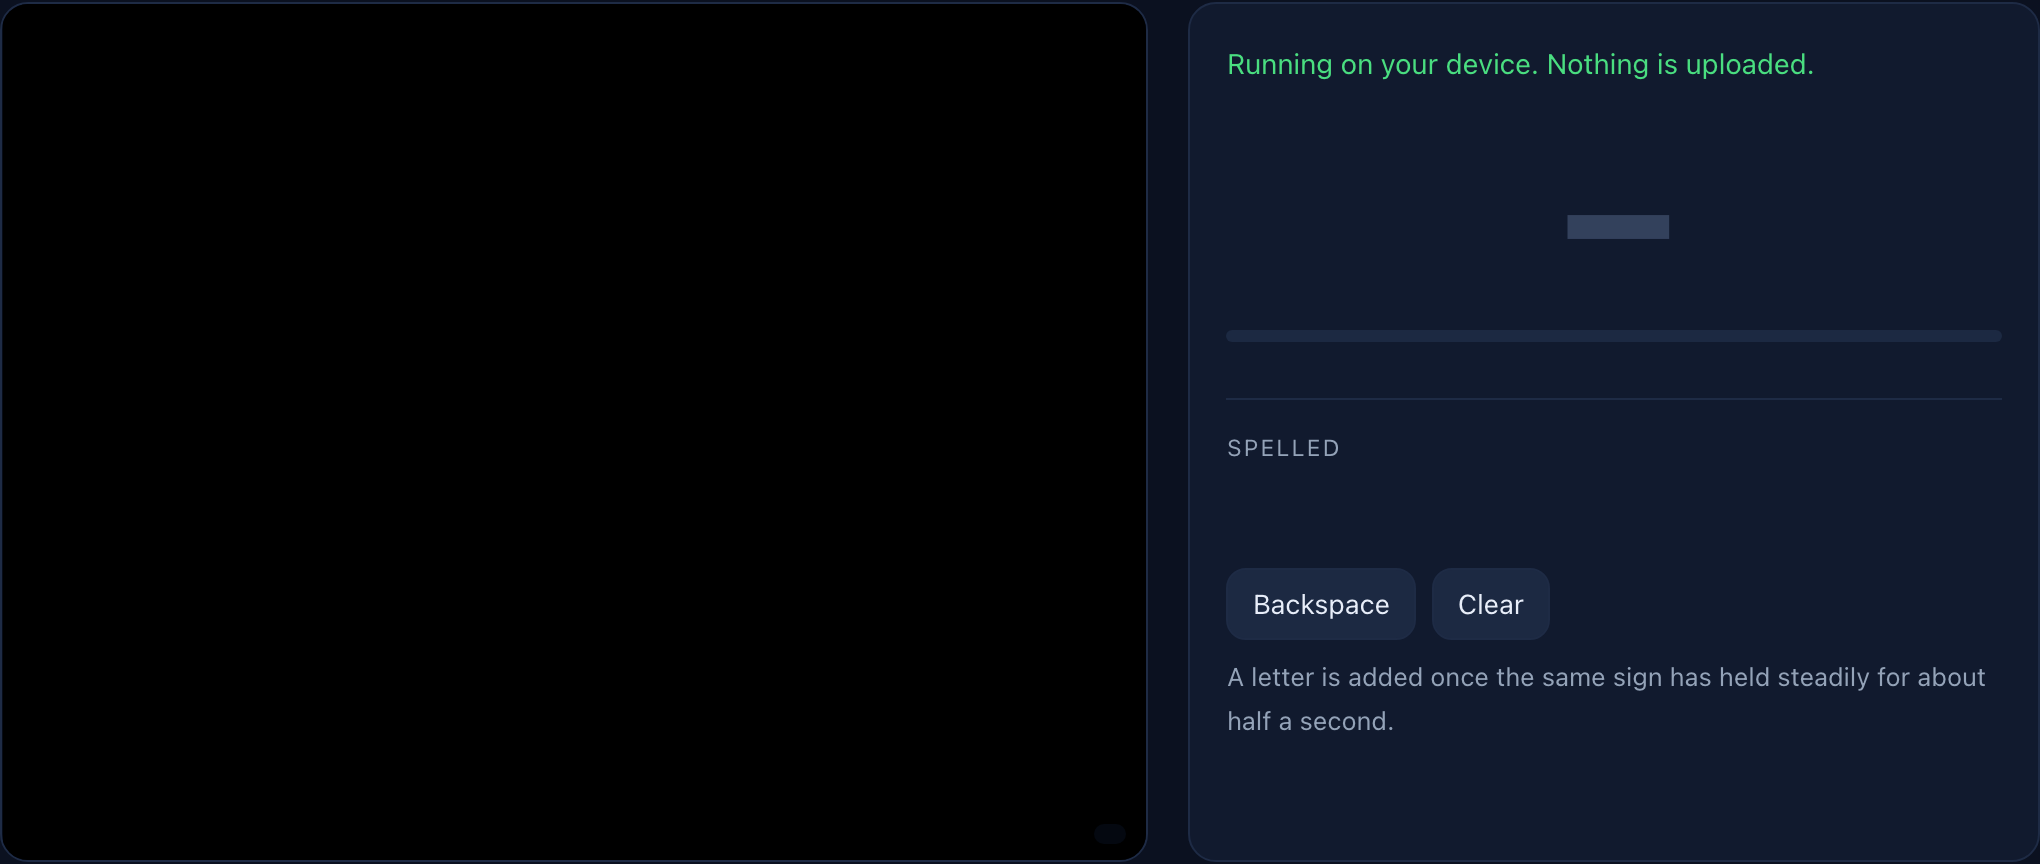
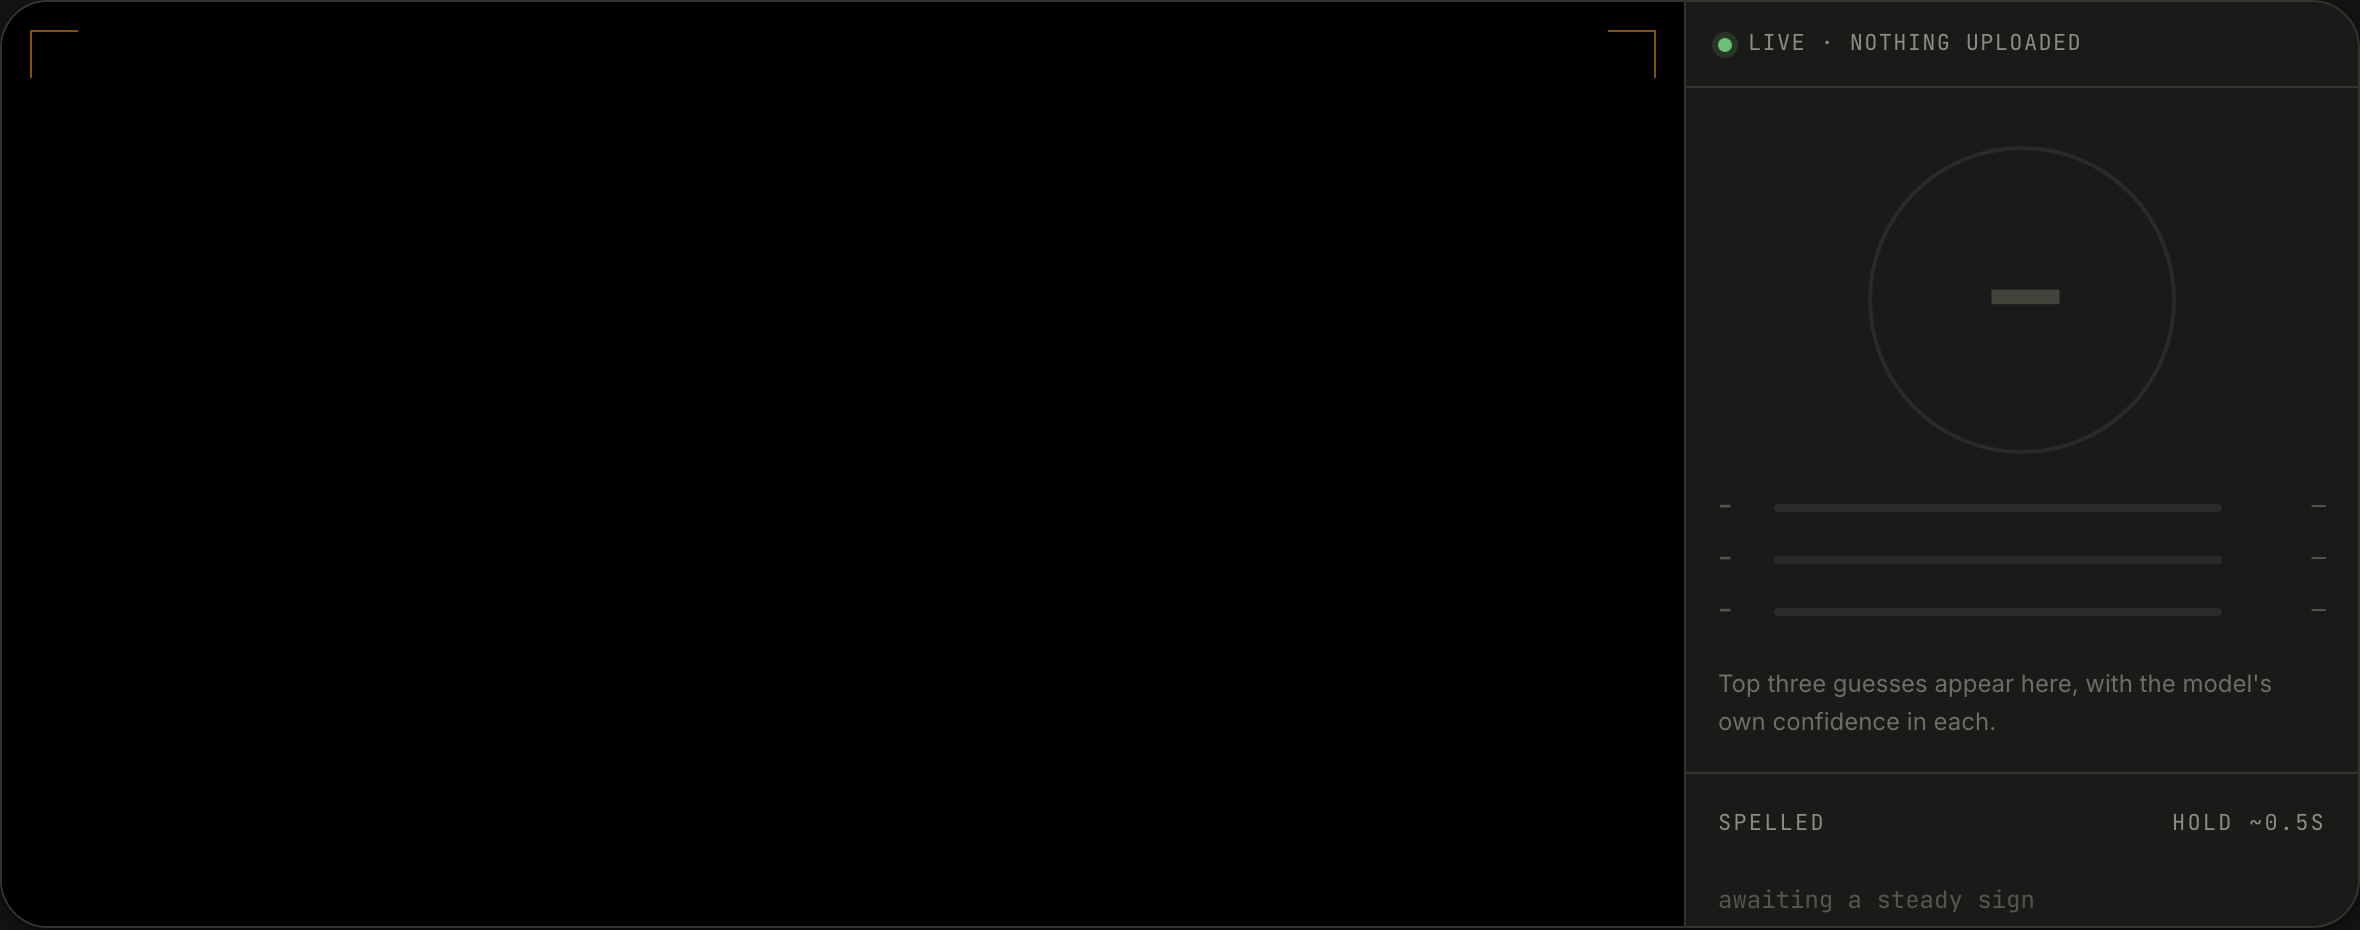
Hide the readout's idle explainer once predictions are live
It sat under the live top-three bars through an entire recorded walkthrough. The
JS toggle meant to remove it never ran -- an edit that missed on indentation and
failed silently -- so it is now driven by the same data-live attribute as the
rest of the live styling, which cannot silently not fire, and a browser test
asserts it.

diff --git a/tests/recognition.spec.js b/tests/recognition.spec.js
@@ -181,6 +181,9 @@ test.describe("the live camera path", () => {
     await expect(page.locator("#letter")).toHaveText(target.letter, { timeout: 30_000 });
     await expect(page.locator("#ranked li")).toHaveCount(3);
     await expect(page.locator('#ranked li[data-placeholder="true"]')).toHaveCount(0);
+    // The panel's idle explainer must give way once there are real predictions
+    // to read; it sat there through an entire recorded walkthrough once.
+    await expect(page.locator("#readout-hint")).toBeHidden();
     // A steady hand must eventually commit exactly one letter, not a stream of them.
     await expect(page.locator("#spelled")).toHaveText(target.letter, { timeout: 30_000 });
 

diff --git a/web/style.css b/web/style.css
@@ -757,6 +757,9 @@ footer a:hover { color: var(--accent); }
   font-size: var(--t-micro);
   color: var(--n-700);
 }
+/* Declarative rather than a JS toggle: the same state attribute that drives the
+   rest of the live styling drives this, so it cannot silently fail to fire. */
+.device[data-live="true"] .readout__hint { display: none; }
 .ranked li[data-placeholder="true"] b { color: var(--n-600); }
 .ranked li[data-placeholder="true"] .pct { color: var(--n-600); }
 
